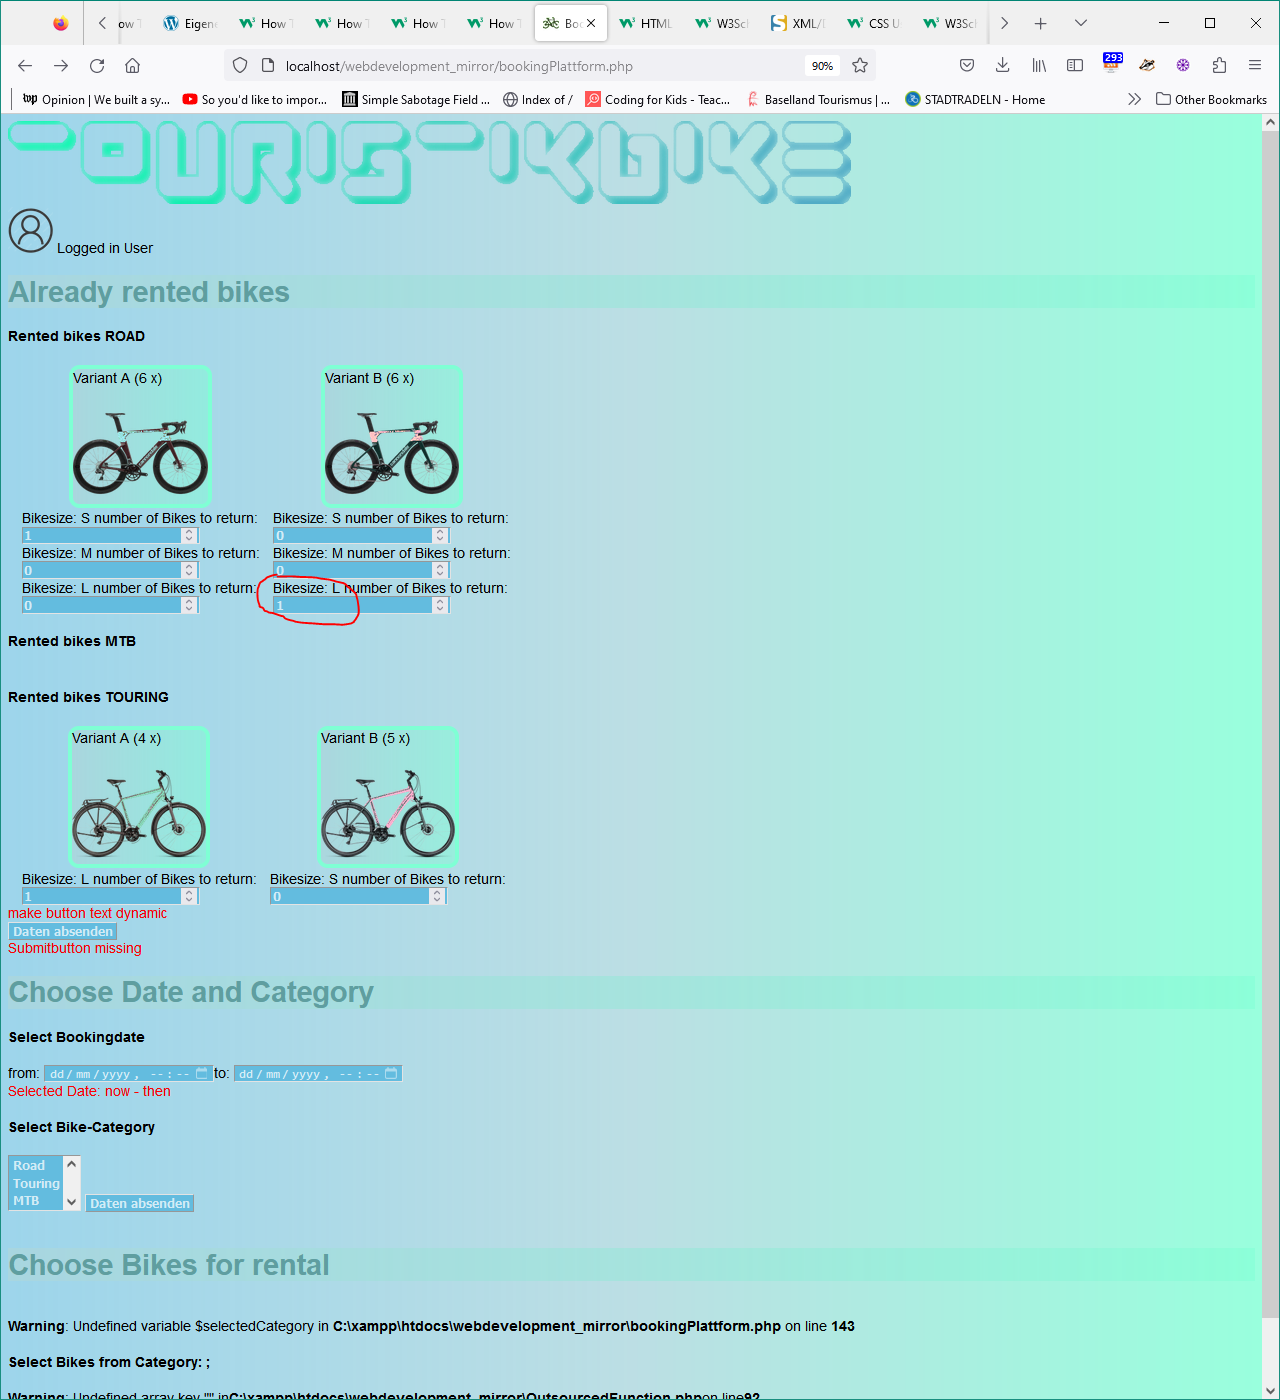
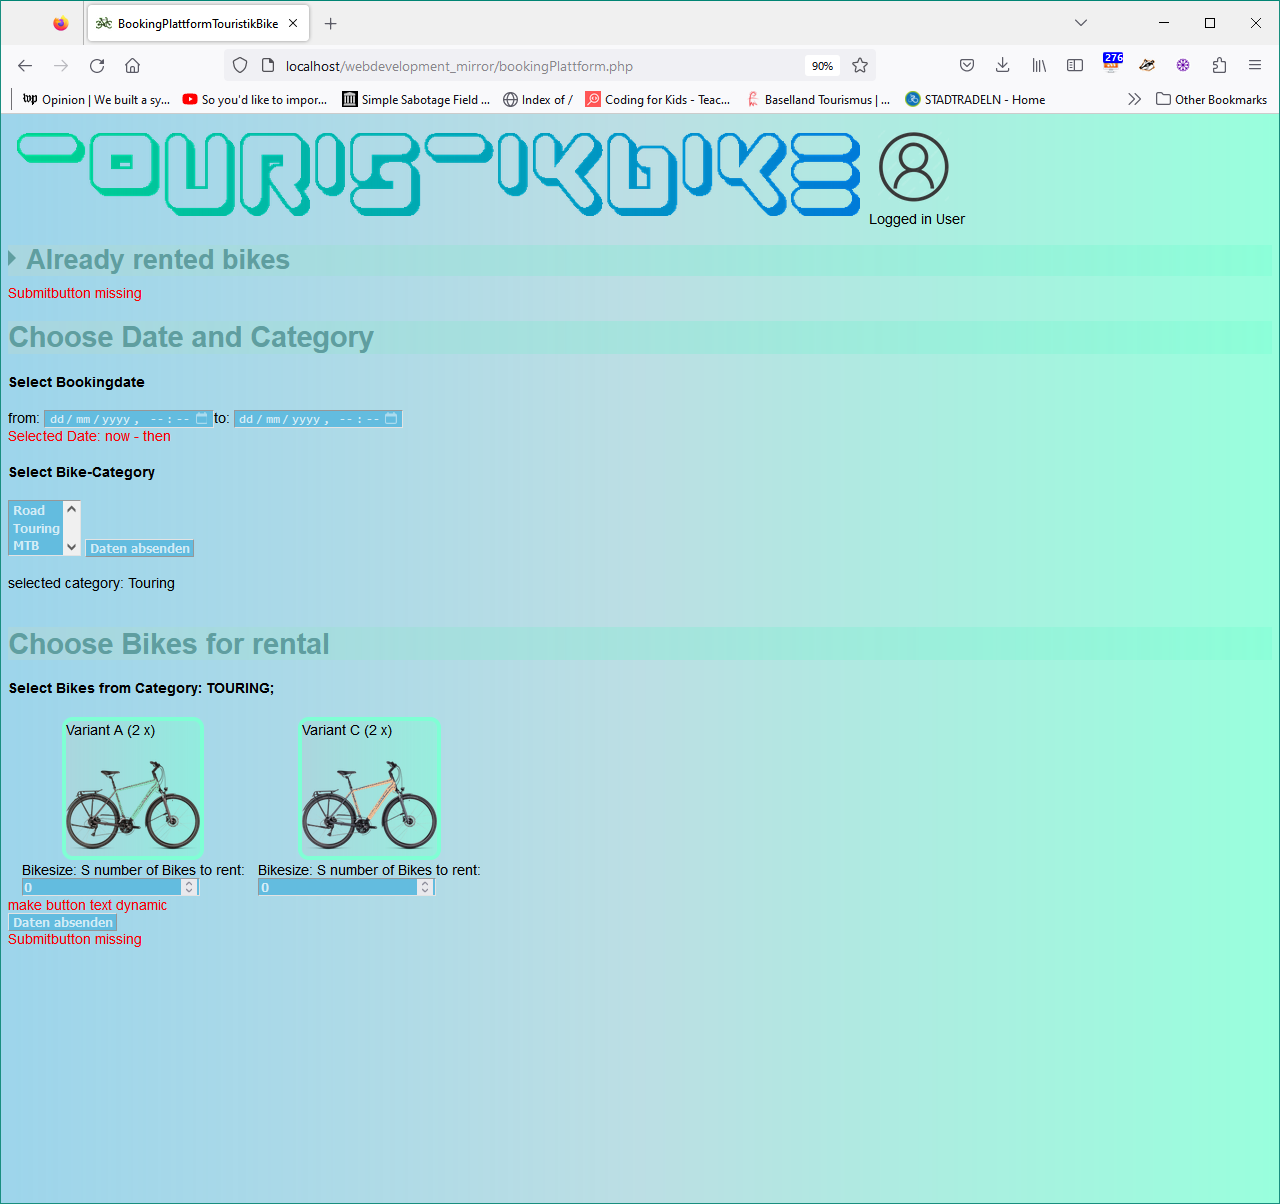
make rented bike overview collapsible

Changed region(s): [[0.0, 0.0, 1.0, 1.0], [0.5625, 0.0, 0.625, 0.0307], [0.7188, 0.0, 0.75, 0.0307]]

diff --git a/bookingPlattform.php b/bookingPlattform.php
@@ -17,6 +17,49 @@
             background-image: linear-gradient(to right, rgba(171,214,221,0.8),  rgba(127,255,212,0.5));
             /*background-color: #abd6dd;*/
         }
+        input[type='checkbox'] {
+            display:none;
+        }
+        .collapsible-content {
+            max-height: 10px;
+            overflow: hidden;
+            transition: max-height 0.8s ease-in-out;
+        }
+
+        .toggle {
+            color: cadetblue;
+            background-image: linear-gradient(to right, rgba(171,214,221,0.8),  rgba(127,255,212,0.5));
+            
+            display: block; /*needed for the css styled arrow: https://css-tricks.com/snippets/css/css-triangle/*/
+            font-weight: bold;
+            font-size: 30px;
+            transition: all 0.25s ease-out;
+        }
+        .toggle:hover {
+            color: aquamarine;
+        }
+        /*needed for the css styled arrow: https://css-tricks.com/snippets/css/css-triangle/*/
+        .toggle::before {
+            content: ' ';
+            display: inline-block;
+
+            border-top: 10px solid transparent;
+            border-bottom: 10px solid transparent;
+            border-left: 10px solid currentColor;
+
+            vertical-align: middle;
+            margin-right: .7rem;
+            transform: translateY(-25%);
+
+            transition: transform .2s ease-out;
+        }
+        .toggle_cb:checked + .toggle::before {
+            transform: rotate(90deg) translateX(-3px);
+        }
+        .toggle_cb:checked + .toggle + .collapsible-content {
+            max-height: 100vh;
+        }
+
         select{
             background-color: #63bcdf;
             color: #d2ecf6;
@@ -52,8 +95,17 @@
             display: flex;
             flex-direction: row;
         }
+        .flexColumn {
+            display: flex;
+            flex-direction: column;
+        }
         img.usericon {
-            
+            margin: 10px;
+            align-self: right;
+        }
+        img.companyLogo {
+            margin: 10px;
+            align-self: center;
         }
         /* todo pass an according parameter (reflecting the variant color from the xml?)), or change the selector class depending on some condition */
         img.dynamicHueImage0 {
@@ -78,20 +130,31 @@
 
         <!-- todo: where to reference the used font? -->
         <!-- font from here: https://www.fontspace.com/new/fonts - "Unbound Gamer" by Iconian Fonts -->
-        <img src="./Logo.png" alt="User icon" width="auto" height="auto">
+        <div class="flexRow">
+            <img class="companyLogo" src="./Logo.png" alt="User icon" width="auto" height="100%">
+            <div class="flexColumn">
+                <img class="usericon" src="./AssetCaseStudy_UserIcon.png" alt="User icon" width="80" height="80">
+                <label class="Username">Logged in User</label> <!-- todo: align this under the icon -->
+            </div>
+        </div>
         <br>
-        <img class="usericon" src="./AssetCaseStudy_UserIcon.png" alt="User icon" width="50" height="auto">
-        <label class="Username">Logged in User</label> <!-- todo: align this under the icon -->
-        <h1>Already rented bikes</h1>
-        <!-- <div class="flexRow"> -->
-        <?php 
-            include "outsourcedFunction.php";
-            $bikeTypes = ["ROAD","MTB", "TOURING"];
-            //echo '<form method="post" action="" name="testForm">';
-            createBikesOverview("Rented","./User1.xml", $bikeTypes);
-            //echo '<input name="testForm" type="submit">';
-            //echo "</form>";
-        ?>
+        <!-- collapsible with css only: https://www.digitalocean.com/community/tutorials/css-collapsible -->
+        <div class="wrap-collapsible">
+            <input id="collapsible" class="toggle_cb" type="checkbox">
+            <label for="collapsible" class="toggle">Already rented bikes</label>
+            <!-- <div class="flexRow"> -->
+            <div class="collapsible-content">
+                <?php 
+                    include "outsourcedFunction.php";
+                    $bikeTypes = ["ROAD","MTB", "TOURING"];
+                    //echo '<form method="post" action="" name="testForm">';
+                    createBikesOverview("Rented","./User1.xml", $bikeTypes);
+                    //echo '<input name="testForm" type="submit">';
+                    //echo "</form>";
+                ?>
+            </div>
+        </div>
+        
         <section class="todo">Submitbutton missing</section> 
         <div>
             <h1>Choose Date and Category</h1>
